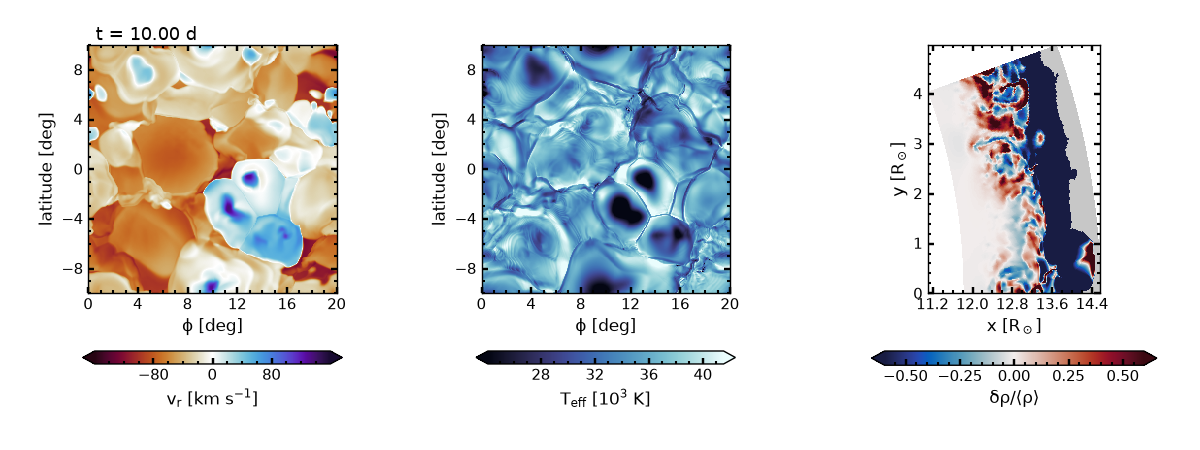
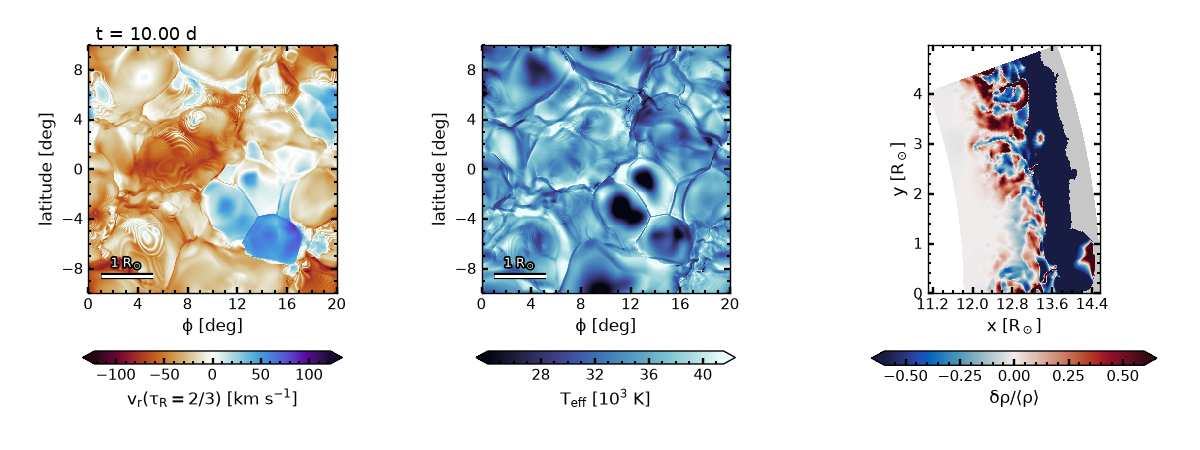
NOTE 2026-11-27z: 3-D movies (26y) and v_r at the photosphere (26z); DOCFIG figures

diff --git a/docs/handover/caltech_results/DOCFIG/mov3d/w3d.py b/docs/handover/caltech_results/DOCFIG/mov3d/w3d.py
@@ -14,7 +14,38 @@ ICE, FUS = (ListedColormap(np.load(D0 + '/lut_%s.npy' % n)) for n in ('ice', 'fu
 RS, DAY = r3.RSUN, 86400.0
 RUNS = dict(bsg=dict(title='Blue supergiant', hydro=G + '/prod_c1_1124/bsg/bin/bsg3d.hydro_w.%05d.bin', rad='vet', var='vet_f1', grid=G + '/prod_c1_1124/bsg/bsg3d.x1grid.txt',
     table=G + '/fresh_prod_1120/bsg/rosseland_mesakap_gs98_x0.70_z0.008.txt', mu=0.62, gamma=5/3., rin=0.0, rview=56.0, az=30, el=30, zoom=1.17))
+TB2 = G + '/fresh_prod_1120/tables/rosseland_mesakap_gs98_x0.70_z0.02.txt'
+def _c(title, d, pre, mu, rin, rview, **k):
+    q = dict(title=title, hydro=G + '/' + d + '/bin/' + pre + '.hydro_w.%05d.bin', rad='vet', var='vet_f1', grid=G + '/' + d + '/' + pre + '.x1grid.txt', table=TB2, mu=mu, gamma=5/3., rin=rin, rview=rview, az=30, el=30, zoom=1.0, fit=True, last=None, te=None); q.update(k); return q
+RUNS['bsg'].update(last=114, te=None)
+RUNS['m35mms'] = _c('M35MMS', 'prod_c1_1124/m35mms', 'm35mms', 0.6215, 0.86*9.554e11/6.957e10, 14.2, last=480, note='frames interpolated')
+RUNS['m35zams'] = _c('M35ZAMS', 'prod_c1_1124/m35zams', 'm35zams', 0.6220, 0.93*5.4972e11/6.957e10, 8.0, last=480, note='frames interpolated')
+RUNS['t9l62'] = _c('T9L6.2', 'prod_c4_1124/t9l62', 't9l62', 0.674, 0.42*6.5326e12/6.957e10, 560.0, last=223, te=[4.9, 10.0], amb=0.80, dif=0.30, spec=0.0)
+RUNS['t9mlt'] = _c('T9 with adaptive MLT', 'prod_mlt_1125/t9mlt', 't9l62', 0.674, 0.62*3.9282e12/6.957e10, 64.0, last=178, te=[9.0, 29.5], amb=0.80, dif=0.30, spec=0.0)
+def lastdump(s):                                               # newest dump complete for > 10 min (the run may still be writing)
+    c = RUNS[s]
+    if c['last'] is not None: return c['last']
+    P = []
+    for f in sorted(glob.glob(c['hydro'].replace('%05d', '*'))):
+        g = f.replace('hydro_w', c['rad'])
+        if os.path.exists(g) and time.time() - max(os.path.getmtime(f), os.path.getmtime(g)) > 600: P.append(int(f.split('.')[-2]))
+    return max(P)
 SIZE = (1920, 1080)
+for _s, _L, _R in (('bsg', 10., 52.5), ('m35mms', 1., 13.65), ('m35zams', 0.1, 7.90), ('t9l62', 100., 470.), ('t9mlt', 10., 55.)): RUNS[_s].update(bar=_L, rref=_R, key=_s)
+def basis(cam):
+    ep, fp, up = (np.array(v, float) for v in (cam.position, cam.focal_point, cam.up)); fwd = (fp-ep)/np.linalg.norm(fp-ep); rt = np.cross(fwd, up); rt /= np.linalg.norm(rt); return ep, fwd, rt, np.cross(rt, fwd)
+def project(cam, q):                                           # pixel (x from left, y from bottom) of world points [R_sun]
+    ep, fwd, rt, uu = basis(cam); d = q-ep; dep = d@fwd; th = np.tan(np.radians(cam.view_angle)/2); asp = SIZE[0]/SIZE[1]; wc = np.array(cam.GetWindowCenter())
+    return np.stack([((d@rt)/dep/(th*asp)-wc[0]+1)/2*SIZE[0], ((d@uu)/dep/th-wc[1]+1)/2*SIZE[1]], -1), dep
+def addbar(pv, pl, D, c, caps):
+    cam = pl.camera; ep, fwd, rt, uu = basis(cam); th = np.tan(np.radians(cam.view_angle)/2); asp = SIZE[0]/SIZE[1]; wc = np.array(cam.GetWindowCenter()); Q = []
+    for k0, k1, j0, j1 in caps:                                # depth of the point of the shown photosphere (radius rref, fixed over the movie) nearest to the camera
+        PH, TH = np.meshgrid(D['phf'][k0:k1+1], D['thf'][j0:j1+1], indexing='ij'); Q.append((r3.sph(np.full(PH.shape, c['rref']), TH, PH).reshape(-1, 3)-ep)@fwd)
+    dep = float(np.concatenate(Q).min()); ln = c['bar']/(dep*th*asp)*SIZE[0]/2; _m, py0 = json.load(open(D0 + '/barpos.json'))[c['key']]; px0 = _m-ln/2; X = (2*px0/SIZE[0]-1+wc[0])*th*asp*dep; Y = (2*py0/SIZE[1]-1+wc[1])*th*dep; P0 = ep+fwd*dep+rt*X+uu*Y; P1 = P0+rt*c['bar']
+    ln = c['bar']/(dep*th*asp)*SIZE[0]/2
+    for a, b in ((P0, P1),) + tuple((p-uu*8*dep*th*2/SIZE[1], p+uu*8*dep*th*2/SIZE[1]) for p in (P0, P1)): pl.add_mesh(pv.Line(a, b), color='white', line_width=5, lighting=False)
+    lb = pl.add_text('%g R_sun' % c['bar'], position=(int(round(px0+ln/2)), int(py0+14)), font_size=15, color='white'); lb.prop.SetJustificationToCentered(); pl.renderer.ResetCameraClippingRange()
+    return ln, dep
 def assemble(d, names):                                            # float64 version of render3d.assemble
     lg = np.array(d['mb_logical'])[:, :3]; n3, n2, n1 = d['mb_data'][names[0]][0].shape
     out = {k: np.empty((n3*(lg[:, 2].max()+1), n2*(lg[:, 1].max()+1), n1), np.float64) for k in names}; thf, phf = np.empty(n2*(lg[:, 1].max()+1)+1), np.empty(n3*(lg[:, 2].max()+1)+1)
@@ -56,16 +87,33 @@ def render(D, c, L, out, variant):
     else:
         fs = [r3.face_phi(pv, D, nph-1, 0, nth, 1), r3.face_th(pv, D, 0, 0, nph, 0)]; caps = [(0, nph, 0, nth)]; inn = None
     fa = [pl.add_mesh(f, scalars='f', cmap=FUS, clim=(-L['vr'], L['vr']), show_scalar_bar=False, ambient=0.75, diffuse=0.3, specular=0.0) for f in fs if f.n_cells]
-    ca = [pl.add_mesh(r3.cap(pv, D, cfg, *q), scalars='c', cmap=ICE, clim=L['te'], show_scalar_bar=False, ambient=0.3, diffuse=0.7, specular=0.15, specular_power=20) for q in caps]
+    ca = [pl.add_mesh(r3.cap(pv, D, cfg, *q), scalars='c', cmap=ICE, clim=L['te'], show_scalar_bar=False, ambient=c.get('amb', 0.3), diffuse=c.get('dif', 0.7), specular=c.get('spec', 0.15), specular_power=20) for q in caps]
     if inn: pl.add_mesh(r3.inner(pv, D, *inn), color='#555555', ambient=0.3)
     sb = dict(color='white', title_font_size=34, label_font_size=30, n_labels=3, fmt='%.3g', unconstrained_font_size=True)
     pl.add_scalar_bar('radial velocity (km/s)', mapper=fa[0].mapper, vertical=False, position_x=0.30, position_y=0.03, width=0.36, height=0.08, **sb)
     pl.add_scalar_bar('T_eff (kK)', mapper=ca[0].mapper, vertical=True, position_x=0.72, position_y=0.22, width=0.05, height=0.62, **sb)
-    pl.add_text('%s\nt = %.2f d     median R_ph = %.0f R_sun' % (c['title'], D['t']/DAY, np.median(D['rph']/RS)), position='upper_edge', font_size=15, color='white')
+    
+    if c.get('note'): pl.add_text(c['note'], position=(40, 40), font_size=13, color='white')
+    tt = pl.add_text('%s\nt = %.2f d     median R_ph = %s R_sun' % (c['title'], D['t']/DAY, ('%.2f' if c['rview'] < 20 else '%.0f') % np.median(D['rph']/RS)), position=(960, 1040), font_size=15, color='white')
+    tt.prop.SetJustificationToCentered(); tt.prop.SetVerticalJustificationToTop()
     phc = 0.5*(D['phf'][0]+D['phf'][-1]); d0 = np.array([np.cos(phc), np.sin(phc), 0.]); up = np.array([0., 0., 1.]); side = np.cross(up, d0); az, el = np.radians(c['az']), np.radians(c['el']); eye = (d0*np.cos(az)+side*np.sin(az))*np.cos(el)+up*np.sin(el)
     TH, PH = np.meshgrid(np.linspace(D['thf'][0], D['thf'][-1], 9), np.linspace(D['phf'][0], D['phf'][-1], 9)); box = np.concatenate([r3.sph(np.full(TH.shape, rr), TH, PH).reshape(-1, 3) for rr in (D['rf'][0]/RS, c['rview'])]); foc = 0.5*(box.min(0)+box.max(0)); ext = np.linalg.norm(box.max(0)-box.min(0))
     pl.camera.position = tuple(foc+eye*ext*2); pl.camera.focal_point = tuple(foc); pl.camera.up = (0, 0, 1); pl.camera.view_angle = 30
-    pl.reset_camera(bounds=(box[:, 0].min(), box[:, 0].max(), box[:, 1].min(), box[:, 1].max(), box[:, 2].min(), box[:, 2].max())); pl.camera.zoom(c['zoom']); pl.camera.SetWindowCenter(0.0, 0.06); pl.screenshot(out); pl.close()
+    
+    lead = None
+    if c.get('fit'):                                           # wedge fills the frame: perspective projection of the wedge points -> view angle and window centre
+        ep = foc+eye*ext*3.0; fwd = -eye; rt = np.cross(fwd, up); rt /= np.linalg.norm(rt); uu = np.cross(rt, fwd); q = box-ep; dep = q@fwd; X, Y = (q@rt)/dep, (q@uu)/dep; asp = SIZE[0]/SIZE[1]
+        th = max((Y.max()-Y.min())/2/c.get('fh', 0.72), (X.max()-X.min())/2/(c.get('fw', 0.62)*asp)); va = 2*np.degrees(np.arctan(th)); cx, cy = (X.max()+X.min())/2/(th*asp), (Y.max()+Y.min())/2/th
+        pl.camera.position = tuple(ep); pl.camera.focal_point = tuple(ep+fwd); pl.camera.up = (0, 0, 1); pl.camera.view_angle = va; pl.reset_camera_clipping_range(); pl.camera.SetWindowCenter(cx-c.get('tx', -0.06), cy-c.get('ty', 0.03)); lead = 1
+    if lead is None: pl.reset_camera(bounds=(box[:, 0].min(), box[:, 0].max(), box[:, 1].min(), box[:, 1].max(), box[:, 2].min(), box[:, 2].max())); pl.camera.zoom(c['zoom']); pl.camera.SetWindowCenter(0.0, 0.06)
+    ln, dep = addbar(pv, pl, D, c, caps)
+    if os.environ.get('CHK'):                                  # check data: projected outline of the true cap mesh (pixel box) and the bar length
+        Q = []
+        for q in caps:
+            g = r3.cap(pv, D, cfg, *q); Q.append(np.asarray(g.points))
+        Q = np.concatenate(Q); XY, _ = project(pl.camera, Q)
+        print('CHK', c['title'], 'bar %.4g R_sun = %.2f px predicted; cap box px x %.1f %.1f y %.1f %.1f' % (c['bar'], ln, XY[:, 0].min(), XY[:, 0].max(), XY[:, 1].min(), XY[:, 1].max()), flush=True)
+    pl.screenshot(out); pl.close()
 def limits(s, D):
     te = r3.teff_map(D, dict(teff_smooth=0))/1e3; fv = np.concatenate([np.abs(D[k][..., :]).ravel() for k in D if k[:3] in ('fk_', 'fj_')])
     vis = []
@@ -76,10 +124,16 @@ def limits(s, D):
     return dict(te=[float(x) for x in np.percentile(te, [1, 99])], vr=float(np.percentile(np.concatenate(vis), 99)), Fle0=float(np.mean(D['Fph'] <= 0)))
 def work(a):
     s, n, L, v, tag = a; t0 = time.time(); D = reduce(s, n); t1 = time.time(); f = D0 + '/frames/%s%s_%05d.png' % (s, tag, n); render(D, RUNS[s], L, f, v); t2 = time.time(); print('frame %s %05d t=%.2f d reduce %.1f s render %.1f s R_ph med %.2f F<=0 %.1e' % (s, n, D['t']/DAY, t1-t0, t2-t1, np.median(D['rph'])/RS, np.mean(D['Fph'] <= 0)), flush=True)
+def redw(q):
+    t0 = time.time(); D = reduce(*q); print('red', q, '%.1f s' % (time.time()-t0), 'R_ph med %.2f p99.9 %.2f' % (np.median(D['rph'])/RS, np.percentile(D['rph'], 99.9)/RS), flush=True)
 if __name__ == '__main__':
-    ap = argparse.ArgumentParser(); ap.add_argument('star'); ap.add_argument('--only', default='114-114'); ap.add_argument('--workers', type=int, default=1); ap.add_argument('--variant', default='notch'); ap.add_argument('--tag', default=''); a = ap.parse_args()
-    s = a.star; lf = D0 + '/lim_%s.json' % s; x, y = (int(q) for q in a.only.split('-'))
-    if not os.path.exists(lf): json.dump(limits(s, reduce(s, 114)), open(lf, 'w'))
+    ap = argparse.ArgumentParser(); ap.add_argument('star'); ap.add_argument('--only', default='last'); ap.add_argument('--workers', type=int, default=1); ap.add_argument('--reduce', action='store_true'); ap.add_argument('--variant', default='notch'); ap.add_argument('--tag', default=''); a = ap.parse_args()
+    s = a.star; lf = D0 + '/lim_%s.json' % s; (x, y) = (lastdump(s),)*2 if a.only == 'last' else ((0, lastdump(s)) if a.only == 'all' else [int(q) for q in a.only.split('-')])
+    if a.reduce:
+        import multiprocessing as mp
+        with mp.get_context('spawn').Pool(a.workers) as p: p.map(redw, [(s, n) for n in range(x, y+1)], chunksize=1)
+        sys.exit()
+    if not os.path.exists(lf): _l = limits(s, trim(reduce(s, lastdump(s)), RUNS[s]['rin']) if s == 'm35zams' else reduce(s, lastdump(s))); _l['te'] = RUNS[s]['te'] or _l['te']; json.dump(_l, open(lf, 'w'))
     L = json.load(open(lf)); print('limits', L); jobs = [(s, n, L, a.variant, a.tag) for n in range(x, y+1)]
     if a.workers == 1: [work(j) for j in jobs]
     else:

diff --git a/docs/handover/caltech_results/DOCFIG/docfig.py b/docs/handover/caltech_results/DOCFIG/docfig.py
@@ -25,12 +25,20 @@ def load(s, f):
         d['x1'] = np.degrees(z['x3f']); d['x2'] = 90 - np.degrees(z['x2f']); d['rf'] = z['x1f'] / RS; d['ang'] = z['x2f']; rho = z['p0_rho']; d['sl'] = np.ma.masked_where(rho <= 1.5 * C[s]['fl'], rho / z['rho_sh'] - 1); d['lab'] = 'r = 40.7 R_sun'; d['slk'] = 'theta'
     else:
         c = C[s]; d['t'] = float(z['t']) / 86400; d['vr'] = z['sh_vr_' + c['tag']][0].T; d['te'] = z['sh_Teff'][0].T; d['x1'] = np.degrees(z['ph_f']); d['x2'] = 90 - np.degrees(z['th_f']); rho = 10 ** z['eqa_lrho']; d['sl'] = np.ma.masked_where((rho <= 1.5 * c['fl']) | z['eqa_Tfl'].astype(bool) * 0, rho / z['rho'][:rho.shape[1]] - 1); d['rf'] = z['rf'][:rho.shape[1] + 1] / RS; d['ang'] = z['eqa_phi']; d['slk'] = 'phi'; d['rph_med'] = float(z['Rph_med'])
+    return ph23(s, f, d)
+def ph23(s, f, d):
+    # 26z: v_r at tau_R = 2/3 of each column (p23.py), one definition for all stars; bsg also takes its T_eff from the same point
+    n = re.search(r'red_(\d+)', f).group(1); q = O + 'p23/%s_%05d.npz' % (s, int(n)); z = np.load(q); assert abs(float(z['t']) - d['t']) < 1e-3, (s, n, float(z['t']), d['t'])
+    d['vr'] = z['v'].T.astype(float); d['nnone'] = int(z['nnone']); d['rph23'] = float(np.nanmedian(z['r'])) / RS
+    if s == 'bsg': d['te'] = z['te'].T.astype(float)
+    else: d['te_d'] = float(np.nanmax(abs(z['te'].T - d['te']) / d['te']))
     return d
 def zone(s, d):
     """slice cells below 0.97 R_ph (median, this dump) and inside the slice range"""
     sc = 1 if s == 'bsg' else C[s]['rph'] / RS; rm = 0.5 * (np.asarray(d['rf'][1:]) + np.asarray(d['rf'][:-1])); top = 51.0 if s == 'bsg' else 0.97 * d['rph_med'] / RS
     if 'z' in C[s]: return (rm >= C[s]['z'][0] * sc) & (rm <= C[s]['z'][1] * sc)
     return (rm >= C[s]['rr'][0] * sc) & (rm <= min(top, C[s]['rr'][1] * sc))
+TEFIX = dict(t9l62=(4900., 10000.), t9mlt=(9000., 29500.))   # USER 11-25: brighter surfaces; same as the 3-D movies
 def lims(s, pick=None):
     f = files(s); idx = pick or list(range(0, len(f), max(1, len(f) // 40))) + [len(f) - 1]
     V, T, S = [], [], []
@@ -40,13 +48,23 @@ def lims(s, pick=None):
         V.append(np.nanpercentile(abs(d['vr']), 99.5)); T.append(np.nanpercentile(d['te'], [2, 98])); ok = (d['rf'][1:] / (C[s]['rph'] / RS) > 0) if s != 'bsg' else True
         rr = zone(s, d); q = np.ma.masked_invalid(d['sl'][:, rr]); S.append(np.nanpercentile(abs(q.compressed()), 99))
     L = dict(v=float(np.percentile(V, 80)), te=[float(np.percentile([x[0] for x in T], 10)), float(np.percentile([x[1] for x in T], 90))], s=float(min(1.0, np.percentile(S, 60) * 0.8)))
+    if s in TEFIX: L['te'] = list(TEFIX[s])
     return L
+BARS = dict(bsg=10., m35mms=1., m35zams=0.1, t9l62=100., t9mlt=10.)                       # R_sun; lateral scale bar at the median photosphere radius of the dump
+import matplotlib.patheffects as pe
+def sbar(a, s, d):
+    # horizontal bar of a round length [R_sun] at the photosphere: length = R_ph x angle (exact at the equator and for R_ph = the dump's median; the angle is L / R_ph)
+    L = BARS[s]; deg = np.degrees(L / d['rph23']); W = d['x1'][-1] - d['x1'][0]; x0 = d['x1'][0] + max(0.05 * W, 0.12 * W - deg / 2); y0 = d['x2'][-1] + 0.07 * (d['x2'][0] - d['x2'][-1]); w = [pe.withStroke(linewidth=4.5, foreground='black')]
+    if deg > 0.9 * (d['x1'][-1] - d['x1'][0]): return
+    a.plot([x0, x0 + deg], [y0, y0], color='white', lw=2.2, solid_capstyle='butt', path_effects=w, zorder=9)
+    a.text(x0 + deg / 2, y0 + 0.025 * (d['x2'][0] - d['x2'][-1]), r'$\rm %g\ R_\odot$' % L, color='white', fontsize=9, ha='center', va='bottom', path_effects=[pe.withStroke(linewidth=2.5, foreground='black')], zorder=9)
 def draw(s, d, L, fn, stamp=True):
     c = C[s]; t9 = s.startswith('t9'); wide = t9
     fig = plt.figure(figsize=(12, 3.9 if wide else 4.5)); gs = fig.add_gridspec(1, 3, left=0.062 if wide else 0.05, right=0.985, top=0.90, bottom=0.10, wspace=0.28, width_ratios=[1, 1, 1.1 if not wide else 1.0])
-    for j, (f, cm, lo, hi, lab, ext) in enumerate(((d['vr'], FUS, -L['v'], L['v'], r'$\rm v_r\ [km\ s^{-1}]$', 'both'), (d['te'] / 1e3, ICE, L['te'][0] / 1e3, L['te'][1] / 1e3, r'$\rm T_{eff}\ [10^3\ K]$', 'both'))):
+    for j, (f, cm, lo, hi, lab, ext) in enumerate(((d['vr'], FUS, -L['v'], L['v'], r'$\rm v_r(\tau_R=2/3)\ [km\ s^{-1}]$', 'both'), (d['te'] / 1e3, ICE, L['te'][0] / 1e3, L['te'][1] / 1e3, r'$\rm T_{eff}\ [10^3\ K]$', 'both'))):
         a = fig.add_subplot(gs[0, j]); pc = a.pcolormesh(d['x1'], d['x2'], np.ma.masked_invalid(f), cmap=cm_(cm), vmin=lo, vmax=hi, shading='flat', rasterized=True); a.set_aspect('equal'); a.set_xlabel(r'$\rm \phi\ [deg]$'); a.set_ylabel(r'$\rm latitude\ [deg]$'); a.xaxis.set_major_locator(MaxNLocator(5)); a.yaxis.set_major_locator(MaxNLocator(5))
         cb = fig.colorbar(pc, ax=a, orientation='horizontal', shrink=0.85, pad=0.16, extend=ext); cb.set_label(lab); cb.locator = MaxNLocator(5); cb.update_ticks()
+        sbar(a, s, d)
         if j == 0 and stamp: a.text(0.03, 1.02, 't = %.2f d' % d['t'], transform=a.transAxes, fontsize=13, color='black')
     a = fig.add_subplot(gs[0, 2]); rr = C[s]['rr']; sc = 1 if s == 'bsg' else c['rph'] / RS; rf = np.asarray(d['rf']); i0 = int(np.searchsorted(rf, rr[0] * sc)); i1 = min(len(rf) - 1, int(np.searchsorted(rf, rr[1] * sc)))
     if s == 'bsg': A = d['ang']; R, TH = np.meshgrid(rf[i0:i1 + 1], A); X, Y = R * np.sin(TH), R * np.cos(TH); xl, yl = r'$\rm x\ [R_\odot]$', r'$\rm z\ [R_\odot]$'
@@ -55,7 +73,7 @@ def draw(s, d, L, fn, stamp=True):
     cb = fig.colorbar(pc, ax=a, orientation='horizontal', shrink=0.85, pad=0.16, extend='both'); cb.set_label(r'$\rm \delta\rho/\langle\rho\rangle$'); cb.locator = MaxNLocator(5); cb.update_ticks()
     fig.savefig(fn); plt.close(fig)
 def frames(s):
-    L = json.load(open(O + 'work/lim_%s.json' % s)); F = files(s); D = O + 'frames/' + s; os.makedirs(D, exist_ok=True); n = len(F)
+    L = json.load(open(O + 'work/lim_%s.json' % s)); F = files(s); D = O + 'frames23/' + s; os.makedirs(D, exist_ok=True); n = len(F)
     from multiprocessing import Pool
     with Pool(int(os.environ.get('NPROC', '6'))) as p: p.map(fr1, [(s, F[i], i, L, D) for i in range(n)], chunksize=2)
     print(s, 'frames', len(glob.glob(D + '/*.png')))
@@ -64,20 +82,21 @@ def fr1(a):
     if not os.path.exists(fn): draw(s, load(s, f), L, fn)
 def strip():
     S = ['bsg', 'm35mms', 'm35zams', 't9l62', 't9mlt']; N = dict(bsg='bsg', m35mms='m35mms', m35zams='m35zams', t9l62='t9l62', t9mlt='t9mlt (MLT)')
-    fig, ax = plt.subplots(2, 5, figsize=(15, 5.6)); fig.subplots_adjust(left=0.04, right=0.985, top=0.94, bottom=0.12, wspace=0.28, hspace=0.42)
+    fig, ax = plt.subplots(2, 5, figsize=(15, 6.4)); fig.subplots_adjust(left=0.045, right=0.985, top=0.95, bottom=0.10, wspace=0.34, hspace=0.34)
     for j, s in enumerate(S):
         d = load(s, files(s)[-1]); L = lims(s, [len(files(s)) - 1])
-        for i, (f, cm, lo, hi, lab) in enumerate(((d['vr'], FUS, -L['v'], L['v'], r'$\rm v_r\ [km\ s^{-1}]$'), (d['te'] / 1e3, ICE, L['te'][0] / 1e3, L['te'][1] / 1e3, r'$\rm T_{eff}\ [10^3\ K]$'))):
-            a = ax[i, j]; pc = a.pcolormesh(d['x1'], d['x2'], np.ma.masked_invalid(f), cmap=cm_(cm), vmin=lo, vmax=hi, shading='flat', rasterized=True); a.set_box_aspect(0.5 if s.startswith('t9') else 1.0); a.xaxis.set_major_locator(MaxNLocator(3)); a.yaxis.set_major_locator(MaxNLocator(3)); a.tick_params(labelsize=9)
-            cb = fig.colorbar(pc, ax=a, orientation='horizontal', pad=0.16, shrink=0.9, extend='both'); cb.locator = MaxNLocator(3); cb.update_ticks(); cb.ax.tick_params(labelsize=9); cb.set_label(lab, fontsize=10)
+        for i, (f, cm, lo, hi, lab) in enumerate(((d['vr'], FUS, -L['v'], L['v'], r'$\rm v_r(\tau_R=2/3)\ [km\ s^{-1}]$'), (d['te'] / 1e3, ICE, L['te'][0] / 1e3, L['te'][1] / 1e3, r'$\rm T_{eff}\ [10^3\ K]$'))):
+            a = ax[i, j]; pc = a.pcolormesh(d['x1'], d['x2'], np.ma.masked_invalid(f), cmap=cm_(cm), vmin=lo, vmax=hi, shading='flat', rasterized=True); a.set_box_aspect(0.5 if s.startswith('t9') else 1.0); a.xaxis.set_major_locator(MaxNLocator(3)); a.yaxis.set_major_locator(MaxNLocator(3)); a.tick_params(labelsize=9); a.set_xlabel(r'$\rm \phi\ [deg]$', fontsize=10, labelpad=1); a.set_ylabel(r'$\rm latitude\ [deg]$', fontsize=10, labelpad=1)
+            sbar(a, s, d); cb = fig.colorbar(pc, ax=a, orientation='horizontal', pad=0.24, shrink=0.9, extend='both'); cb.locator = MaxNLocator(3); cb.update_ticks(); cb.ax.tick_params(labelsize=9); cb.set_label(lab, fontsize=10)
             if i == 0: a.set_title('%s, t = %.1f d' % (N[s], d['t']), fontsize=11)
     fig.savefig(O + 'out/doc_strip.png'); plt.close(fig); print('strip', os.path.getsize(O + 'out/doc_strip.png'))
 if __name__ == '__main__':
     s, m = sys.argv[1], sys.argv[2]
     Lf = O + 'work/lim_%s.json' % s
     if m == 'limits':
-        _l = lims(s)
-        if s == 't9l62': _l['te'] = [6500., 12500.]   # the star cools from 20 kK to 7 kK: fixed limits fitted to the later part; early frames are saturated
+        _o = json.load(open(O + 'work_prev26z/lim_%s.json' % s)); _l = lims(s); _l['s'] = _o['s']
+        if s != 'bsg' and s not in TEFIX: _l['te'] = _o['te']      # 26z: T_eff and density limits unchanged (bsg T_eff moves to tau 2/3)
+        if False: _l['te'] = [6500., 12500.]   # the star cools from 20 kK to 7 kK: fixed limits fitted to the later part; early frames are saturated
         json.dump(_l, open(Lf, 'w'))
         print(s, json.load(open(Lf)), len(files(s)))
     if m == 'fig':

diff --git a/docs/handover/caltech_results/DOCFIG/p23.py b/docs/handover/caltech_results/DOCFIG/p23.py
@@ -1,0 +1,35 @@
+"""p23.py STAR a-b: v_r and comoving T_eff at tau_R = 2/3 of each column, page definition (pages_c1_1124/src/reduce.py: tau at cell centres from the top,
+linear in tau between the two cells around 2/3, quantity linear between cell centres), no smoothing. Columns without tau >= 2/3: NaN. read only."""
+import sys, os, types, re, time
+import numpy as np
+sys.modules.setdefault('h5py', types.ModuleType('h5py')); sys.path.insert(0, '/resnick/groups/carnegie_poc/jingze/rsgE_page/vispy_4de8168d'); import bin_convert as bc
+G = '/resnick/groups/carnegie_poc/jingze/'; T2 = G + 'fresh_prod_1120/tables/rosseland_mesakap_gs98_x0.70_z0.02.txt'
+R = dict(bsg=('prod_c1_1124/bsg/', 'bsg3d', 0.62, G + 'fresh_prod_1120/bsg/rosseland_mesakap_gs98_x0.70_z0.008.txt'), m35mms=('prod_c1_1124/m35mms/', 'm35mms', 0.6215, T2), m35zams=('prod_c1_1124/m35zams/', 'm35zams', 0.6220, T2), t9l62=('prod_c4_1124/t9l62/', 't9l62', 0.674, T2), t9mlt=('prod_mlt_1125/t9mlt/', 't9l62', 0.674, T2))
+SIG = 5.670374419e-5; MU_K = 1.66053906660e-24 / 1.380649e-16; TAB = {}
+def table(f):
+    g = [l for l in open(f) if re.match(r'#\s*\d', l)][0][1:].split(); nT, nD = int(g[0]), int(g[1]); lT0, dlT, lD0, dlD = map(float, g[2:6]); return nT, nD, lT0, dlT, lD0, dlD, np.loadtxt(f, comments='#').reshape(nT, nD)
+def kap(t, rho, T):
+    nT, nD, lT0, dlT, lD0, dlD, V = t; x = np.clip((np.log10(np.maximum(T, 1)) - lT0) / dlT, 0, nT - 1 - 1e-9); y = np.clip((np.log10(np.maximum(rho, 1e-30)) - lD0) / dlD, 0, nD - 1 - 1e-9); i = x.astype(int); j = y.astype(int); fx = x - i; fy = y - j
+    return 10 ** ((1-fx)*(1-fy)*V[i, j] + fx*(1-fy)*V[i+1, j] + (1-fx)*fy*V[i, j+1] + fx*fy*V[i+1, j+1])
+def asm(h, v):
+    lg = np.asarray(h['mb_logical']); n3, n2, n1 = h['mb_data'][v][0].shape; P = np.empty((n3*(lg[:, 2].max()+1), n2*(lg[:, 1].max()+1), n1))
+    for m in range(len(lg)): P[lg[m, 2]*n3:(lg[m, 2]+1)*n3, lg[m, 1]*n2:(lg[m, 1]+1)*n2] = h['mb_data'][v][m]
+    return P
+def one(a):
+    s, n = a; fo = G + 'docfig_1125/p23/%s_%05d.npz' % (s, n)
+    if os.path.exists(fo): return
+    d, pre, mu, tf = R[s]
+    if tf not in TAB: TAB[tf] = table(tf)
+    h = bc.read_binary(G + d + 'bin/%s.hydro_w.%05d.bin' % (pre, n)); t = h['time'] / 86400; rho = asm(h, 'dens'); v = asm(h, 'velx'); T = (2/3.) * asm(h, 'eint') / rho * mu * MU_K; del h
+    m = bc.read_binary(G + d + 'bin/%s.vet.%05d.bin' % (pre, n)); E = asm(m, 'vet_e'); F = asm(m, 'vet_f1'); del m
+    gr = np.array([x.split()[:4] for x in open(G + d + pre + '.x1grid.txt') if not x.startswith('#') and len(x.split()) == 4], float); nr = rho.shape[2]; rc = gr[3:3+nr, 2]; dr = np.diff(gr[3:3+nr+1, 1])
+    dt = kap(TAB[tf], rho, T) * rho * dr; del T
+    tau = np.cumsum(dt[..., ::-1], -1)[..., ::-1] - 0.5 * dt; del dt
+    above = tau < 2/3.; k = np.argmax(~above[..., ::-1], -1); ok = (~above).any(-1) & (k > 0); ib = np.clip(nr - 1 - k, 0, nr - 2)       # k = 0: the top cell itself is thick (photosphere off the top)
+    g = lambda q, i: np.take_along_axis(q, i[..., None], -1)[..., 0]
+    w = np.clip((g(tau, ib) - 2/3.) / np.maximum(g(tau, ib) - g(tau, ib+1), 1e-30), 0, 1); at = lambda q: g(q, ib) + (g(q, ib+1) - g(q, ib)) * w
+    fc = F - 4/3. * E * v; f = g(fc, ib) + (g(fc, ib+1) - g(fc, ib)) * w
+    np.savez_compressed(fo + '.tmp%d.npz' % os.getpid(), t=t, v=np.where(ok, at(v) / 1e5, np.nan).astype(np.float32), te=np.where(ok & (f > 0), (np.maximum(f, 1e-99) / SIG) ** 0.25, np.nan).astype(np.float32), r=np.where(ok, rc[ib] + (rc[ib+1] - rc[ib]) * w, np.nan).astype(np.float64), nnone=int((~ok).sum()), ntop=int((k == 0).sum()), ncol=ok.size); os.replace(fo + '.tmp%d.npz' % os.getpid(), fo); print(s, n, 't %.3f none %d of %d' % (t, (~ok).sum(), ok.size), flush=True)
+if __name__ == '__main__':
+    import multiprocessing as mp; s, r, w = sys.argv[1], sys.argv[2], int(sys.argv[3]); a, b = map(int, r.split('-'))
+    with mp.get_context('spawn').Pool(w) as p: p.map(one, [(s, n) for n in range(a, b+1)], chunksize=1)

diff --git a/docs/handover/caltech_results/DOCFIG/mov3d/place.py b/docs/handover/caltech_results/DOCFIG/mov3d/place.py
@@ -1,0 +1,28 @@
+import numpy as np, glob, json, sys
+from PIL import Image
+from scipy.ndimage import uniform_filter, binary_dilation
+from multiprocessing import Pool
+ST={'m35mms':140}
+def ld(f):
+    a=np.asarray(Image.open(f).convert('RGB').resize((960,540),Image.BILINEAR)).max(-1)>14; return a
+def one(s):
+    F=sorted(glob.glob('frames/%s_*.png'%s)); U=np.zeros((540,960),bool)
+    from multiprocessing.pool import ThreadPool
+    for m in ThreadPool(24).imap_unordered(ld,F): U|=m
+    U[:60]=False; U[470:]=False; U[:,650:]=False; U[(540-115):,:240]=False           # title, v_r bar, T_eff bar, old scale bar (wedge is right of x = 240 px half-res there)
+    U[(540-92):(540-70),340:500]=False           # the old bar of this layout (x 690-970, y 140-185)
+    ys,xx=np.where(U); cx,cy=xx.mean(),ys.mean()
+    bw=max(ST[s],150)//2+2; bh=30; g=13                                        # half-res box: bar or label width, label + bar height, gap 13 px = 26 px full = 2.4 % of the height
+    occ=binary_dilation(U,structure=np.ones((2*g+1,2*g+1))); I=np.cumsum(np.cumsum(np.pad(occ,((1,0),(1,0))).astype(int),0),1); best=None
+    for y in range(120,540-65-bh):                                               # y = top row (half-res) of the box
+        for x in range(20,480):
+            if x+bw/2>=cx or y+bh/2<=cy: continue
+            if x<150 and y>480: continue
+            if I[y+bh,x+bw]-I[y,x+bw]-I[y+bh,x]+I[y,x]>0: continue
+            d=(x+bw/2-cx)**2+(y+bh/2-cy)**2
+            if best is None or d<best[0]: best=(d,x,y)
+    d,x,y=best; mid=2*(x+bw/2); yb=1080-2*(y+bh)+4                                # full-res bar: centre x, bar y from the bottom
+    return s,(float(mid),float(yb))
+if __name__=='__main__':
+    with Pool(1) as p: R=dict(p.map(one,list(ST)))
+    B=json.load(open('barpos.json')); B.update(R); json.dump(B,open('barpos.json','w')); print(R)

diff --git a/docs/handover/NOTE-2026-11-27z-caltech-orion-photosphere-velocity.md b/docs/handover/NOTE-2026-11-27z-caltech-orion-photosphere-velocity.md
@@ -1,0 +1,11 @@
+# NOTE 2026-11-27z caltech -> orion: 26y 3-D movies and 26z v_r at the photosphere (both done)
+
+**3-D (26y):** mov3d_<star>.mp4 and mov3d_<star>_poster.png for bsg, m35mms, m35zams, t9l62, t9mlt on docfig-movies-1126. 1080p H.264, 24-30 fps: bsg 2.77 MB / 9.6 s / last dump 00114; m35mms 7.36 MB / 39.9 s / 00480 (frames interpolated); m35zams 7.09 MB / 39.9 s / 00480 (interpolated, wedge from 0.93 R_ph,IC); t9l62 1.53 MB / 9.9 s / dumps 00076-00223 (9.5-27.9 d); t9mlt 4.71 MB / 11.9 s / 00000-00178 (22.25 d). The USER asked afterwards for a round R_sun bar (label centred, near the wedge), a lower title and brighter T9 surfaces (T_eff 4.9-10.0 and 9.0-29.5 kK); all included. t9l62 and t9mlt runs continue; not re-rendered before they end.
+Checked: each movie decodes to the end with 0 errors; the bar agrees with the geometry to 0.9 % or better (measured / computed pixels); outline of the wedge from geometry within 2 px on the left edge. Cost: about 2.3 core-hours measured for the reductions and the first pass, plus three further render passes of the frames (not metered; each about 0.5 core-hours).
+Known: in bsg's first days (R_ph up to 59 R_sun) the wedge reaches under the radial-velocity label.
+
+**2-D (26z):** the five figures, posters and mov_<star>.mp4 have v_r at tau_R = 2/3 in each column (one value for all five stars; linear between cell centres; no smoothing; page definition, caltech_results/DOCFIG/p23.py). Grey columns: 0 in every dump of every star (bsg 115, m35mms 481, m35zams 481, t9l62 224, t9mlt 179 dumps). The T_eff panels of m35mms, m35zams, t9l62, t9mlt are unchanged (the new reduction reproduces the page's T_eff to 2.3e-4 relative or better); bsg's T_eff moved from tau 1 to tau 2/3. The density panels are unchanged. Fixed symmetric v_r limits in the movies: bsg +-55, m35mms +-122, m35zams +-10.5, t9l62 +-405, t9mlt +-148 km/s (figures: limits of the one dump). The T_eff limits of t9l62 and t9mlt equal the 3-D ones (USER). R_sun scale bars on the maps (exact at the equator; CAPTIONS.txt), axis labels added on doc_strip.png.
+Change of look: the t9l62 v_r map is mostly outflow (blue) at the photosphere; m35mms shows more small-scale red and blue and, in its v_r map, thin nested contour lines inside some cells (steps of the interpolation from the radial cells or the same lines as in the bsg T_eff map; not examined).
+mov_m35mms.mp4 5.47 MB, mov_m35zams.mp4 5.87 MB (both the slow 26x version), mov_bsg 2.18, t9l62 1.12, t9mlt 3.53 MB; 10 s or 39.9 s as before.
+
+-- Caltech
